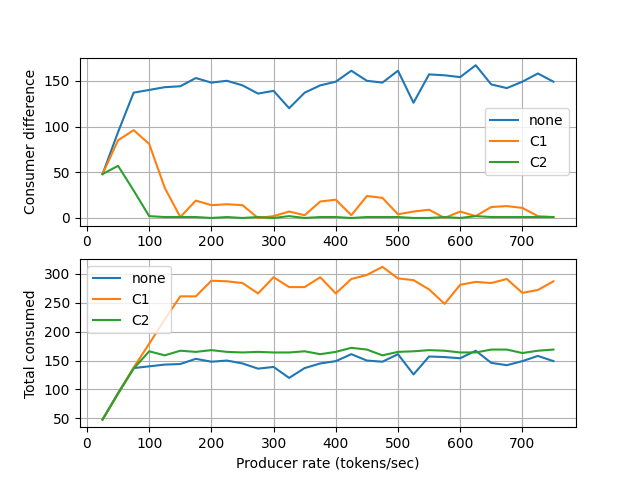
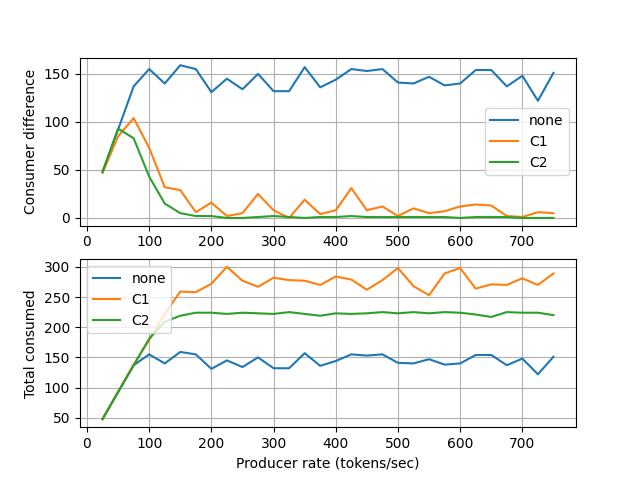
pi_controller: Fix drastic mistake and convert PI to stable PI

diff --git a/src/pi_controller/main.py b/src/pi_controller/main.py
@@ -262,8 +262,10 @@ def main(argv):
     """Integrator states"""
     Kp = 1e-2
     """Propotional gain"""
-    Ki = 1e-2
+    Ki = 1e-4
     """Integrator gain"""
+    Zi = 1e-2
+    """Integrator damping"""
     count = [0, 0]
     """Total number of times the transitions t13 and t23 fire."""
 
@@ -283,7 +285,7 @@ def main(argv):
             err = count[index] - count[1 - index]
             """Calculate the difference between branches"""
             sleep_amount = Kp * err + ci[index]
-            ci[index] = Ki * err
+            ci[index] = (1.0 - Zi) * ci[index] + Ki * err
             """PI controller"""
             if abs(sleep_amount) > 1e4:
                 """This should never happen."""

diff --git a/src/pi_controller/doc.rst b/src/pi_controller/doc.rst
@@ -116,7 +116,7 @@ Controllers
 
 .. literalinclude:: ../../src/pi_controller/main.py
    :language: python
-   :lines: 260-297
+   :lines: 260-299
    :lineno-start: 260
 
 The important lines are
